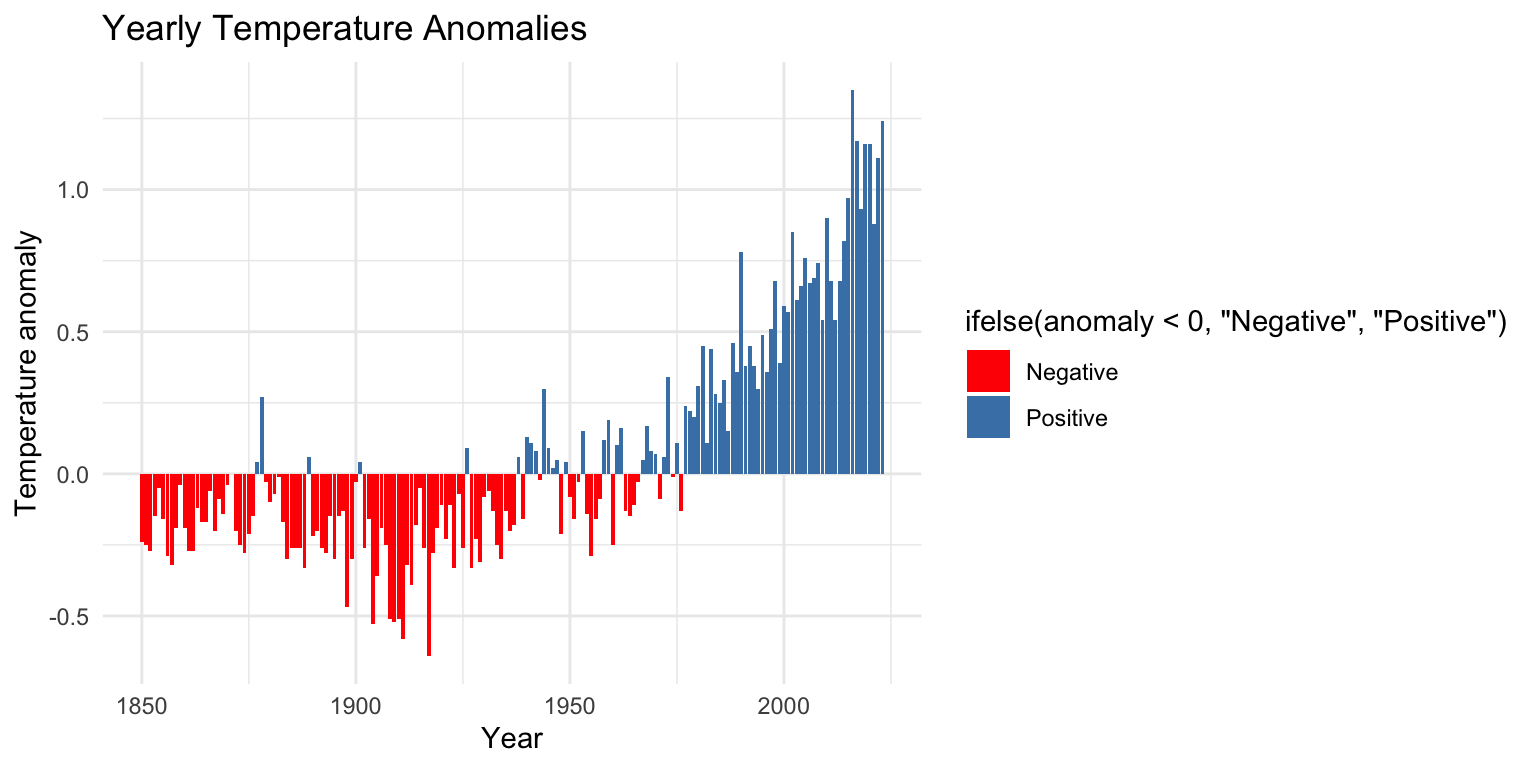
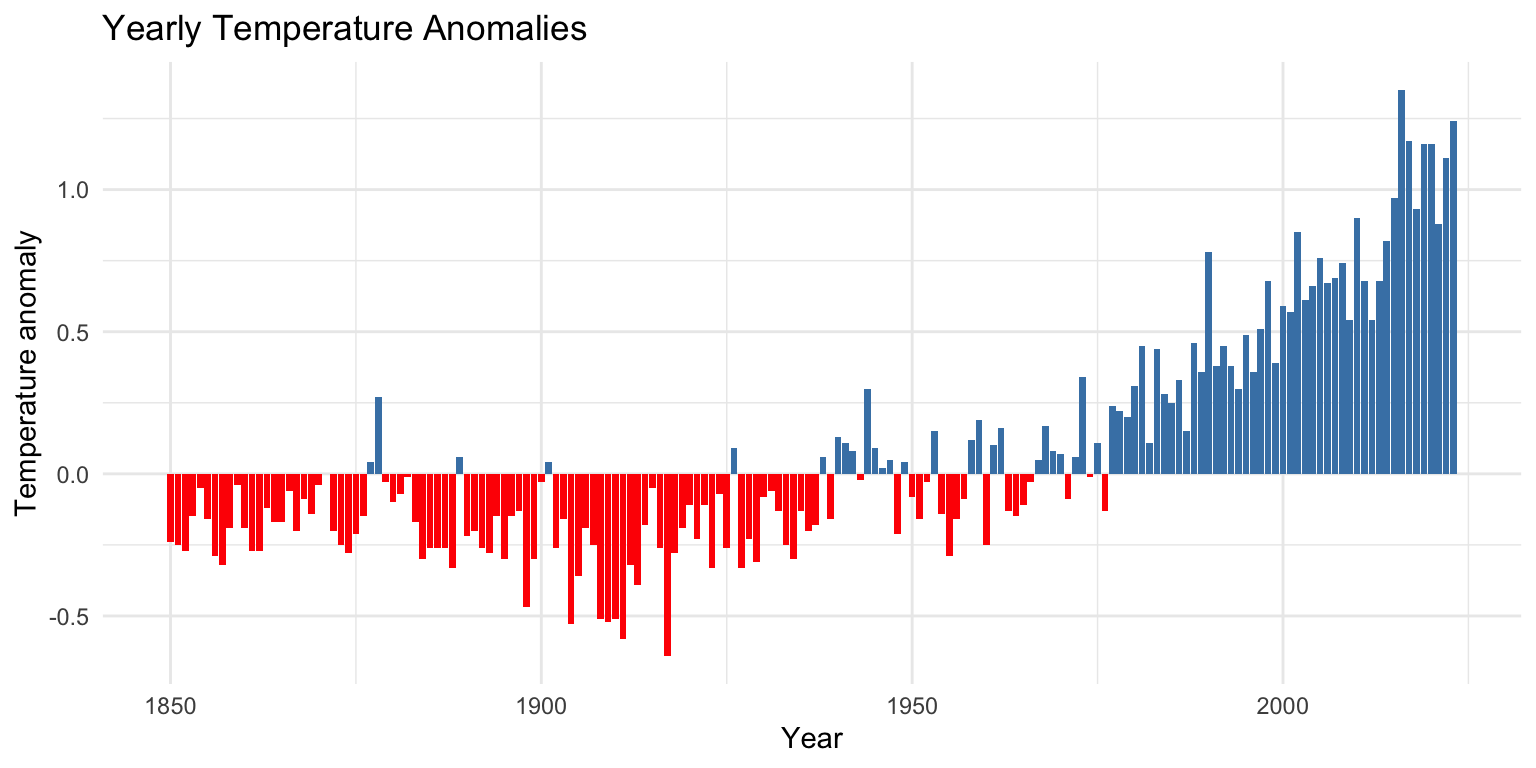
Built site for gh-pages

diff --git a/plotting.html b/plotting.html
@@ -197,7 +197,7 @@ pre > code.sourceCode > span > a:first-child::before { text-decoration: underlin
   <li><a href="#plot-tidy-time-series-with-tsibble" id="toc-plot-tidy-time-series-with-tsibble" class="nav-link" data-scroll-target="#plot-tidy-time-series-with-tsibble"><span class="header-section-number">4.6</span> Plot Tidy Time Series with <code>tsibble</code></a></li>
   <li><a href="#find-a-trend" id="toc-find-a-trend" class="nav-link" data-scroll-target="#find-a-trend"><span class="header-section-number">4.7</span> Find a Trend</a></li>
   <li><a href="#visualize-distribution-and-variation-over-time" id="toc-visualize-distribution-and-variation-over-time" class="nav-link" data-scroll-target="#visualize-distribution-and-variation-over-time"><span class="header-section-number">4.8</span> Visualize Distribution and Variation Over Time</a></li>
-  <li><a href="#recipe-8-arrange-several-plots-for-comparison" id="toc-recipe-8-arrange-several-plots-for-comparison" class="nav-link" data-scroll-target="#recipe-8-arrange-several-plots-for-comparison"><span class="header-section-number">4.9</span> Recipe 8: Arrange Several Plots for Comparison</a></li>
+  <li><a href="#compare-multiple-plots" id="toc-compare-multiple-plots" class="nav-link" data-scroll-target="#compare-multiple-plots"><span class="header-section-number">4.9</span> Compare Multiple Plots</a></li>
   <li><a href="#recipe-9-apply-practical-plotting-guidelines" id="toc-recipe-9-apply-practical-plotting-guidelines" class="nav-link" data-scroll-target="#recipe-9-apply-practical-plotting-guidelines"><span class="header-section-number">4.10</span> Recipe 9: Apply Practical Plotting Guidelines</a></li>
   <li><a href="#summary" id="toc-summary" class="nav-link" data-scroll-target="#summary"><span class="header-section-number">4.11</span> Summary</a></li>
   </ul>
@@ -1370,10 +1370,10 @@ Figure&nbsp;4.29: A simple comparison between the original and smoothed versions
 <h2 data-number="4.8" class="anchored" data-anchor-id="visualize-distribution-and-variation-over-time"><span class="header-section-number">4.8</span> Visualize Distribution and Variation Over Time</h2>
 <p>A complementary approach, offering alternative views of temporal variation.</p>
 <div class="tabset-margin-container"></div><div class="panel-tabset">
-<ul class="nav nav-tabs" role="tablist"><li class="nav-item" role="presentation"><a class="nav-link active" id="tabset-7-1-tab" data-bs-toggle="tab" data-bs-target="#tabset-7-1" role="tab" aria-controls="tabset-7-1" aria-selected="true" href="">Bars</a></li><li class="nav-item" role="presentation"><a class="nav-link" id="tabset-7-2-tab" data-bs-toggle="tab" data-bs-target="#tabset-7-2" role="tab" aria-controls="tabset-7-2" aria-selected="false" href="">Option 7B: Histogram of observed values</a></li><li class="nav-item" role="presentation"><a class="nav-link" id="tabset-7-3-tab" data-bs-toggle="tab" data-bs-target="#tabset-7-3" role="tab" aria-controls="tabset-7-3" aria-selected="false" href="">Option 7C: Boxplot by period</a></li></ul>
+<ul class="nav nav-tabs" role="tablist"><li class="nav-item" role="presentation"><a class="nav-link active" id="tabset-7-1-tab" data-bs-toggle="tab" data-bs-target="#tabset-7-1" role="tab" aria-controls="tabset-7-1" aria-selected="true" href="">Bars</a></li><li class="nav-item" role="presentation"><a class="nav-link" id="tabset-7-2-tab" data-bs-toggle="tab" data-bs-target="#tabset-7-2" role="tab" aria-controls="tabset-7-2" aria-selected="false" href="">Histogram</a></li><li class="nav-item" role="presentation"><a class="nav-link" id="tabset-7-3-tab" data-bs-toggle="tab" data-bs-target="#tabset-7-3" role="tab" aria-controls="tabset-7-3" aria-selected="false" href="">Boxplots</a></li></ul>
 <div class="tab-content">
 <div id="tabset-7-1" class="tab-pane active" role="tabpanel" aria-labelledby="tabset-7-1-tab">
-<p>Use a bar chart to emphasize positive and negative values.</p>
+<p>Use a bar chart to emphasize positive and negative values. You have two representations here: the easy one (left), and the custom one (right).</p>
 <details class="code-fold">
 <summary>Code</summary>
 <div class="code-copy-outer-scaffold"><div class="sourceCode cell-code" id="cb34"><pre class="sourceCode r code-with-copy"><code class="sourceCode r"><span id="cb34-1"><a href="#cb34-1" aria-hidden="true" tabindex="-1"></a><span class="fu">par</span>(<span class="at">mfrow =</span> <span class="fu">c</span>(<span class="dv">1</span>, <span class="dv">2</span>)) <span class="co"># two column plots</span></span>
@@ -1398,8 +1398,10 @@ Figure&nbsp;4.29: A simple comparison between the original and smoothed versions
 <span id="cb34-20"><a href="#cb34-20" aria-hidden="true" tabindex="-1"></a>    <span class="at">x =</span> <span class="st">"Year"</span>,</span>
 <span id="cb34-21"><a href="#cb34-21" aria-hidden="true" tabindex="-1"></a>    <span class="at">y =</span> <span class="st">"Temperature anomaly"</span></span>
 <span id="cb34-22"><a href="#cb34-22" aria-hidden="true" tabindex="-1"></a>  ) <span class="sc">+</span></span>
-<span id="cb34-23"><a href="#cb34-23" aria-hidden="true" tabindex="-1"></a>  <span class="fu">theme_minimal</span>() </span>
-<span id="cb34-24"><a href="#cb34-24" aria-hidden="true" tabindex="-1"></a><span class="fu">par</span>(<span class="at">mfrow =</span> <span class="fu">c</span>(<span class="dv">1</span>, <span class="dv">1</span>)) <span class="co"># back to one</span></span></code></pre></div><button title="Copy to Clipboard" class="code-copy-button"><i class="bi"></i></button></div>
+<span id="cb34-23"><a href="#cb34-23" aria-hidden="true" tabindex="-1"></a>  <span class="fu">theme_minimal</span>() <span class="sc">+</span></span>
+<span id="cb34-24"><a href="#cb34-24" aria-hidden="true" tabindex="-1"></a>  <span class="fu">guides</span>(<span class="at">fill =</span> <span class="st">"none"</span>) <span class="co"># to remove fake legend titles</span></span>
+<span id="cb34-25"><a href="#cb34-25" aria-hidden="true" tabindex="-1"></a></span>
+<span id="cb34-26"><a href="#cb34-26" aria-hidden="true" tabindex="-1"></a><span class="fu">par</span>(<span class="at">mfrow =</span> <span class="fu">c</span>(<span class="dv">1</span>, <span class="dv">1</span>)) <span class="co"># back to one</span></span></code></pre></div><button title="Copy to Clipboard" class="code-copy-button"><i class="bi"></i></button></div>
 </details>
 <div class="cell quarto-layout-panel" data-layout-ncol="2">
 <div class="quarto-layout-row">
@@ -1431,6 +1433,7 @@ Figure&nbsp;4.31: A bar chart emphasizing positive and negative yearly temperatu
 </div>
 </div>
 <div id="tabset-7-2" class="tab-pane" role="tabpanel" aria-labelledby="tabset-7-2-tab">
+<p>Sometimes, a histogram can offer some hints on the available (observed) data. Play with the <code>bins</code> value for the number of represented bars.</p>
 <div class="cell">
 <details class="code-fold">
 <summary>Code</summary>
@@ -1458,6 +1461,7 @@ Figure&nbsp;4.32: A histogram showing the distribution of temperature anomaly va
 </div>
 </div>
 <div id="tabset-7-3" class="tab-pane" role="tabpanel" aria-labelledby="tabset-7-3-tab">
+<p>Or you can use boxplots, for a distribution-centric view.</p>
 <div class="cell">
 <details class="code-fold">
 <summary>Code</summary>
@@ -1503,13 +1507,14 @@ Figure&nbsp;4.33: A grouped view of temperature anomaly distributions across bro
 </div>
 </div>
 </section>
-<section id="recipe-8-arrange-several-plots-for-comparison" class="level2" data-number="4.9">
-<h2 data-number="4.9" class="anchored" data-anchor-id="recipe-8-arrange-several-plots-for-comparison"><span class="header-section-number">4.9</span> Recipe 8: Arrange Several Plots for Comparison</h2>
-<p>This recipe shows simple ways to place several plots together in order to support comparison.</p>
+<section id="compare-multiple-plots" class="level2" data-number="4.9">
+<h2 data-number="4.9" class="anchored" data-anchor-id="compare-multiple-plots"><span class="header-section-number">4.9</span> Compare Multiple Plots</h2>
+<p>Sometimes it is handy to place several plots together, for comparisons.</p>
 <div class="tabset-margin-container"></div><div class="panel-tabset">
-<ul class="nav nav-tabs" role="tablist"><li class="nav-item" role="presentation"><a class="nav-link active" id="tabset-8-1-tab" data-bs-toggle="tab" data-bs-target="#tabset-8-1" role="tab" aria-controls="tabset-8-1" aria-selected="true" href="">Option 8A: Base graphics with <code>par(mfrow = ...)</code></a></li><li class="nav-item" role="presentation"><a class="nav-link" id="tabset-8-2-tab" data-bs-toggle="tab" data-bs-target="#tabset-8-2" role="tab" aria-controls="tabset-8-2" aria-selected="false" href="">Option 8B: <code>facet_wrap()</code> in <code>ggplot2</code></a></li><li class="nav-item" role="presentation"><a class="nav-link" id="tabset-8-3-tab" data-bs-toggle="tab" data-bs-target="#tabset-8-3" role="tab" aria-controls="tabset-8-3" aria-selected="false" href="">Option 8C: Vertical comparison by reshaping</a></li><li class="nav-item" role="presentation"><a class="nav-link" id="tabset-8-4-tab" data-bs-toggle="tab" data-bs-target="#tabset-8-4" role="tab" aria-controls="tabset-8-4" aria-selected="false" href="">Discussion</a></li></ul>
+<ul class="nav nav-tabs" role="tablist"><li class="nav-item" role="presentation"><a class="nav-link active" id="tabset-8-1-tab" data-bs-toggle="tab" data-bs-target="#tabset-8-1" role="tab" aria-controls="tabset-8-1" aria-selected="true" href="">Basics</a></li><li class="nav-item" role="presentation"><a class="nav-link" id="tabset-8-2-tab" data-bs-toggle="tab" data-bs-target="#tabset-8-2" role="tab" aria-controls="tabset-8-2" aria-selected="false" href=""><code>facet_wrap()</code></a></li><li class="nav-item" role="presentation"><a class="nav-link" id="tabset-8-3-tab" data-bs-toggle="tab" data-bs-target="#tabset-8-3" role="tab" aria-controls="tabset-8-3" aria-selected="false" href="">Option 8C: Vertical comparison by reshaping</a></li><li class="nav-item" role="presentation"><a class="nav-link" id="tabset-8-4-tab" data-bs-toggle="tab" data-bs-target="#tabset-8-4" role="tab" aria-controls="tabset-8-4" aria-selected="false" href="">Discussion</a></li></ul>
 <div class="tab-content">
 <div id="tabset-8-1" class="tab-pane active" role="tabpanel" aria-labelledby="tabset-8-1-tab">
+<p>Check the <code>par(mfrow = c(...))</code> construction, for an easy setup.</p>
 <div class="cell">
 <details class="code-fold">
 <summary>Code</summary>
@@ -1533,27 +1538,56 @@ Figure&nbsp;4.34: A base R multi-panel layout using <code>par(mfrow = c(1, 2))</
 </div>
 </div>
 <div id="tabset-8-2" class="tab-pane" role="tabpanel" aria-labelledby="tabset-8-2-tab">
+<p>Use a faceted view, when you have the necessary details on your data (may require additional investigations).</p>
 <div class="cell">
 <details class="code-fold">
 <summary>Code</summary>
 <div class="code-copy-outer-scaffold"><div class="sourceCode cell-code" id="cb38"><pre class="sourceCode r code-with-copy"><code class="sourceCode r"><span id="cb38-1"><a href="#cb38-1" aria-hidden="true" tabindex="-1"></a><span class="fu">ggplot</span>(gtemp_multi_tsibble, <span class="fu">aes</span>(<span class="at">x =</span> year, <span class="at">y =</span> anomaly)) <span class="sc">+</span></span>
 <span id="cb38-2"><a href="#cb38-2" aria-hidden="true" tabindex="-1"></a>  <span class="fu">geom_line</span>(<span class="at">color =</span> <span class="st">"steelblue"</span>, <span class="at">linewidth =</span> <span class="fl">0.8</span>) <span class="sc">+</span></span>
-<span id="cb38-3"><a href="#cb38-3" aria-hidden="true" tabindex="-1"></a>  <span class="fu">facet_wrap</span>(<span class="sc">~</span> series, <span class="at">scales =</span> <span class="st">"free_y"</span>) <span class="sc">+</span></span>
+<span id="cb38-3"><a href="#cb38-3" aria-hidden="true" tabindex="-1"></a>  <span class="fu">facet_wrap</span>(<span class="sc">~</span> series, <span class="at">scales =</span> <span class="st">"free_y"</span>, <span class="at">ncol =</span> <span class="dv">2</span>) <span class="sc">+</span></span>
 <span id="cb38-4"><a href="#cb38-4" aria-hidden="true" tabindex="-1"></a>  <span class="fu">labs</span>(</span>
 <span id="cb38-5"><a href="#cb38-5" aria-hidden="true" tabindex="-1"></a>    <span class="at">title =</span> <span class="st">"Comparison of Temperature Series"</span>,</span>
 <span id="cb38-6"><a href="#cb38-6" aria-hidden="true" tabindex="-1"></a>    <span class="at">x =</span> <span class="st">"Year"</span>,</span>
 <span id="cb38-7"><a href="#cb38-7" aria-hidden="true" tabindex="-1"></a>    <span class="at">y =</span> <span class="st">"Temperature anomaly"</span></span>
 <span id="cb38-8"><a href="#cb38-8" aria-hidden="true" tabindex="-1"></a>  ) <span class="sc">+</span></span>
-<span id="cb38-9"><a href="#cb38-9" aria-hidden="true" tabindex="-1"></a>  <span class="fu">theme_minimal</span>()</span></code></pre></div><button title="Copy to Clipboard" class="code-copy-button"><i class="bi"></i></button></div>
+<span id="cb38-9"><a href="#cb38-9" aria-hidden="true" tabindex="-1"></a>  <span class="fu">theme_minimal</span>()</span>
+<span id="cb38-10"><a href="#cb38-10" aria-hidden="true" tabindex="-1"></a></span>
+<span id="cb38-11"><a href="#cb38-11" aria-hidden="true" tabindex="-1"></a></span>
+<span id="cb38-12"><a href="#cb38-12" aria-hidden="true" tabindex="-1"></a><span class="fu">ggplot</span>(gtemp_multi_tsibble, <span class="fu">aes</span>(<span class="at">x =</span> year, <span class="at">y =</span> anomaly, <span class="at">color =</span> series)) <span class="sc">+</span></span>
+<span id="cb38-13"><a href="#cb38-13" aria-hidden="true" tabindex="-1"></a>  <span class="fu">geom_line</span>(<span class="at">linewidth =</span> <span class="fl">0.8</span>) <span class="sc">+</span></span>
+<span id="cb38-14"><a href="#cb38-14" aria-hidden="true" tabindex="-1"></a>  <span class="fu">facet_wrap</span>(<span class="sc">~</span> series, <span class="at">scales =</span> <span class="st">"free_y"</span>, <span class="at">ncol =</span> <span class="dv">2</span>) <span class="sc">+</span></span>
+<span id="cb38-15"><a href="#cb38-15" aria-hidden="true" tabindex="-1"></a>  <span class="fu">scale_color_manual</span>(<span class="at">values =</span> <span class="fu">c</span>(</span>
+<span id="cb38-16"><a href="#cb38-16" aria-hidden="true" tabindex="-1"></a>    <span class="st">"Land"</span> <span class="ot">=</span> <span class="st">"steelblue"</span>,</span>
+<span id="cb38-17"><a href="#cb38-17" aria-hidden="true" tabindex="-1"></a>    <span class="st">"Ocean"</span> <span class="ot">=</span> <span class="st">"darkred"</span></span>
+<span id="cb38-18"><a href="#cb38-18" aria-hidden="true" tabindex="-1"></a>  )) <span class="sc">+</span></span>
+<span id="cb38-19"><a href="#cb38-19" aria-hidden="true" tabindex="-1"></a>  <span class="fu">labs</span>(</span>
+<span id="cb38-20"><a href="#cb38-20" aria-hidden="true" tabindex="-1"></a>    <span class="at">title =</span> <span class="st">"Comparison of Temperature Series"</span>,</span>
+<span id="cb38-21"><a href="#cb38-21" aria-hidden="true" tabindex="-1"></a>    <span class="at">x =</span> <span class="st">"Year"</span>,</span>
+<span id="cb38-22"><a href="#cb38-22" aria-hidden="true" tabindex="-1"></a>    <span class="at">y =</span> <span class="st">"Temperature anomaly"</span></span>
+<span id="cb38-23"><a href="#cb38-23" aria-hidden="true" tabindex="-1"></a>  ) <span class="sc">+</span></span>
+<span id="cb38-24"><a href="#cb38-24" aria-hidden="true" tabindex="-1"></a>  <span class="fu">theme_minimal</span>() <span class="sc">+</span></span>
+<span id="cb38-25"><a href="#cb38-25" aria-hidden="true" tabindex="-1"></a>  <span class="fu">guides</span>(<span class="at">color =</span> <span class="st">"none"</span>)</span></code></pre></div><button title="Copy to Clipboard" class="code-copy-button"><i class="bi"></i></button></div>
 </details>
 <div class="cell-output-display">
-<div id="fig-plot-facet-wrap" class="quarto-float quarto-figure quarto-figure-center anchored">
+<div id="fig-plot-facet-wrap-1" class="quarto-float quarto-figure quarto-figure-center anchored">
 <figure class="quarto-float quarto-float-fig figure">
-<div aria-describedby="fig-plot-facet-wrap-caption-0ceaefa1-69ba-4598-a22c-09a6ac19f8ca">
+<div aria-describedby="fig-plot-facet-wrap-1-caption-0ceaefa1-69ba-4598-a22c-09a6ac19f8ca">
 <img src="plotting_files/figure-html/fig-plot-facet-wrap-1.png" class="img-fluid figure-img" width="768">
 </div>
-<figcaption class="quarto-float-caption-bottom quarto-float-caption quarto-float-fig" id="fig-plot-facet-wrap-caption-0ceaefa1-69ba-4598-a22c-09a6ac19f8ca">
-Figure&nbsp;4.35: A faceted layout using <code>ggplot2</code>, which is often more robust for Quarto output than base multi-panel state.
+<figcaption class="quarto-float-caption-bottom quarto-float-caption quarto-float-fig" id="fig-plot-facet-wrap-1-caption-0ceaefa1-69ba-4598-a22c-09a6ac19f8ca">
+Figure&nbsp;4.35: A faceted layout using <code>ggplot2</code>, which might be more robust than base multi-panel state.
+</figcaption>
+</figure>
+</div>
+</div>
+<div class="cell-output-display">
+<div id="fig-plot-facet-wrap-2" class="quarto-float quarto-figure quarto-figure-center anchored">
+<figure class="quarto-float quarto-float-fig figure">
+<div aria-describedby="fig-plot-facet-wrap-2-caption-0ceaefa1-69ba-4598-a22c-09a6ac19f8ca">
+<img src="plotting_files/figure-html/fig-plot-facet-wrap-2.png" class="img-fluid figure-img" width="768">
+</div>
+<figcaption class="quarto-float-caption-bottom quarto-float-caption quarto-float-fig" id="fig-plot-facet-wrap-2-caption-0ceaefa1-69ba-4598-a22c-09a6ac19f8ca">
+Figure&nbsp;4.36: A faceted layout using <code>ggplot2</code>, which might be more robust than base multi-panel state.
 </figcaption>
 </figure>
 </div>
@@ -1584,7 +1618,7 @@ Figure&nbsp;4.35: A faceted layout using <code>ggplot2</code>, which is often mo
 <img src="plotting_files/figure-html/fig-plot-vertical-compare-1.png" class="img-fluid figure-img" width="768">
 </div>
 <figcaption class="quarto-float-caption-bottom quarto-float-caption quarto-float-fig" id="fig-plot-vertical-compare-caption-0ceaefa1-69ba-4598-a22c-09a6ac19f8ca">
-Figure&nbsp;4.36: A vertically stacked comparison strategy using a long-format table and faceting.
+Figure&nbsp;4.37: A vertically stacked comparison strategy using a long-format table and faceting.
 </figcaption>
 </figure>
 </div>
